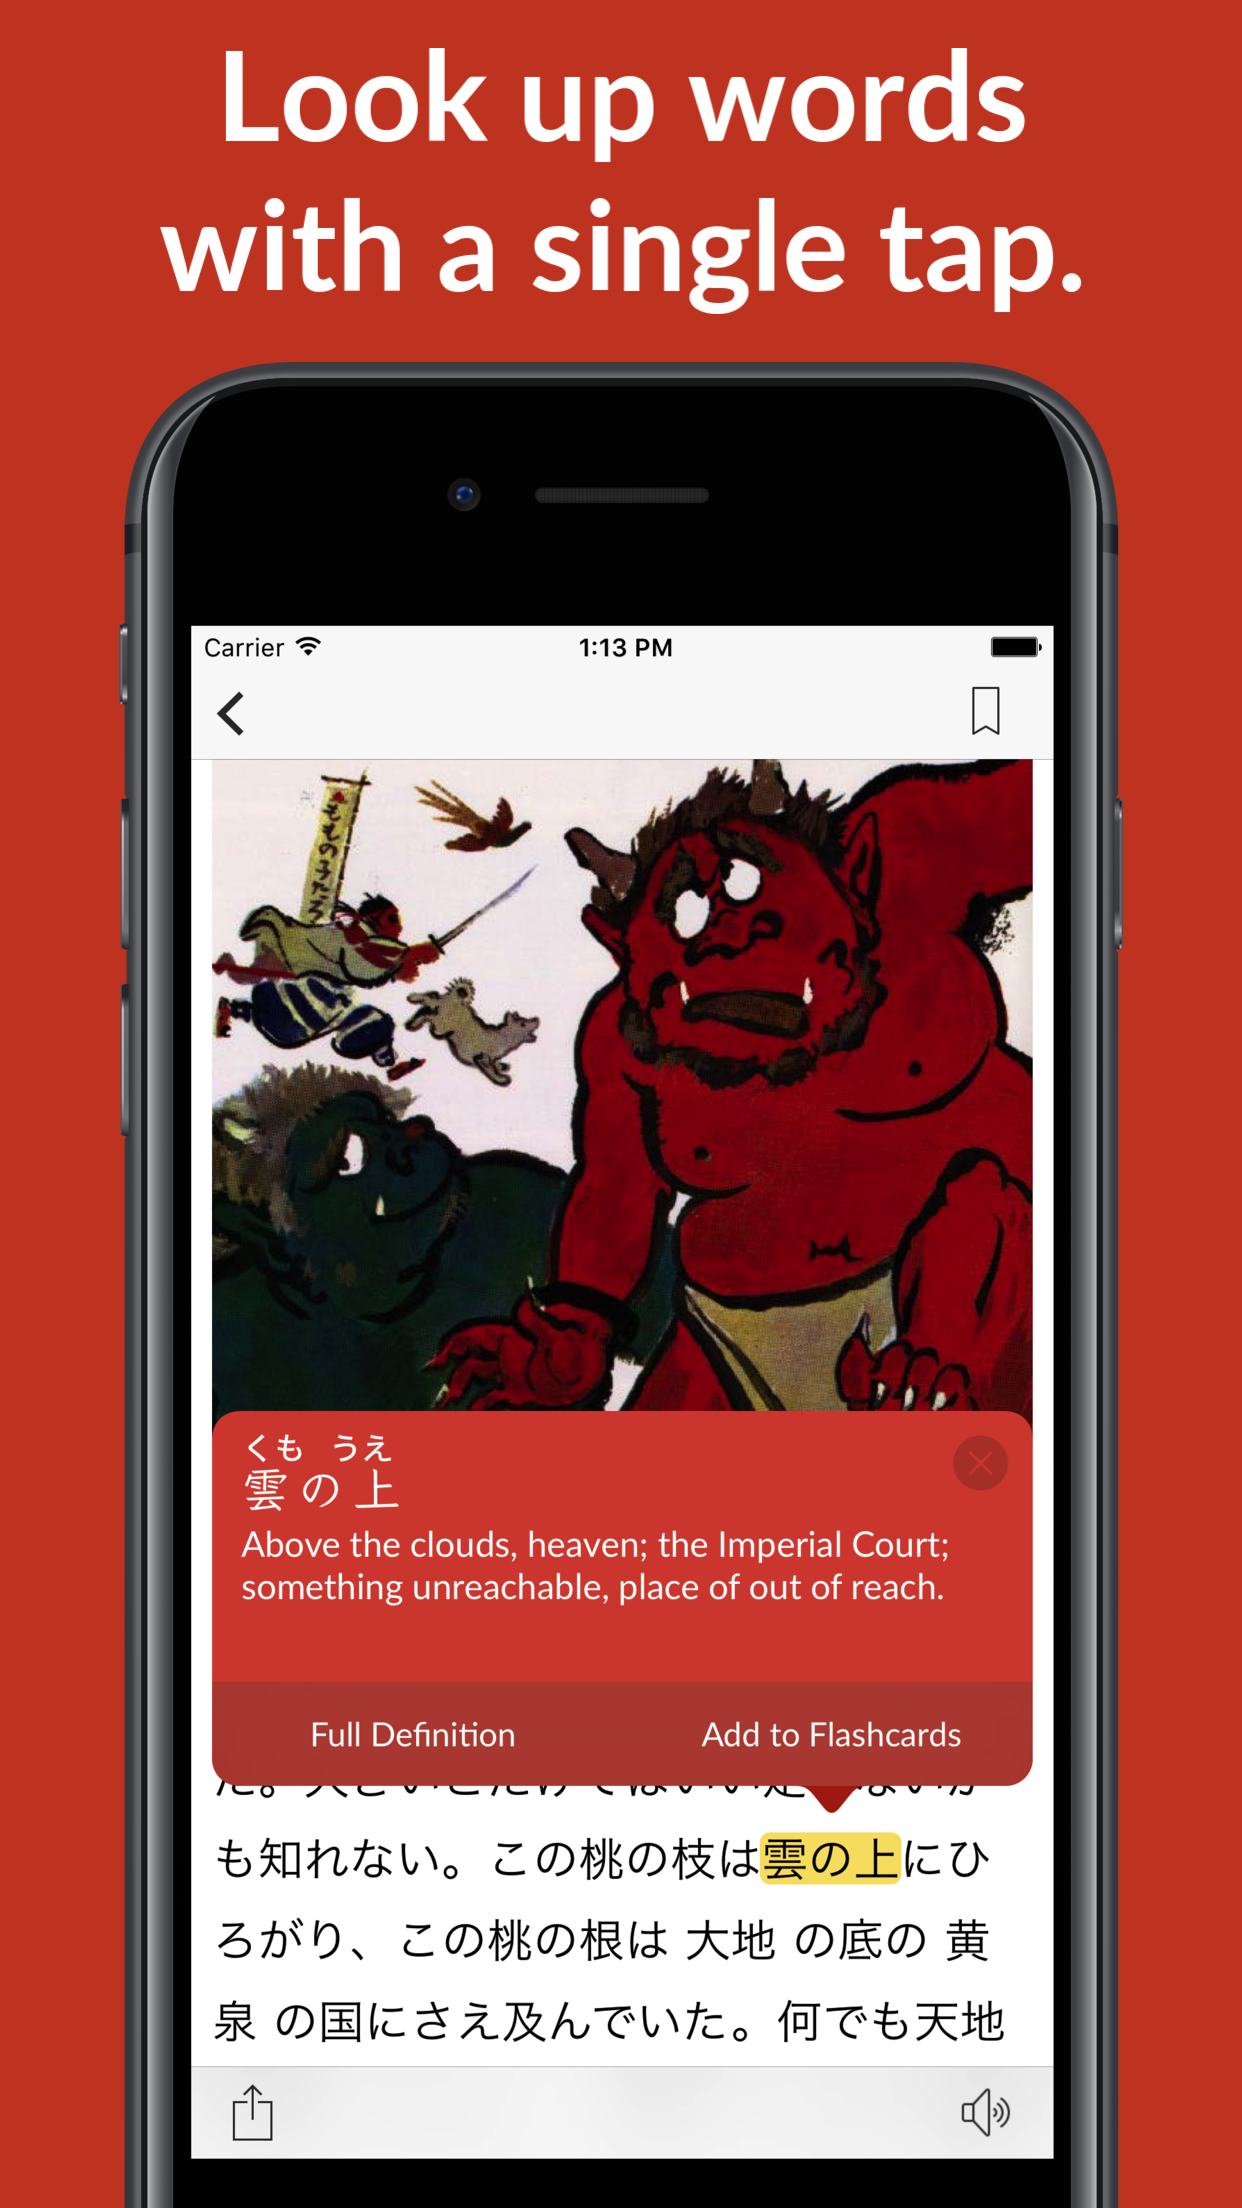
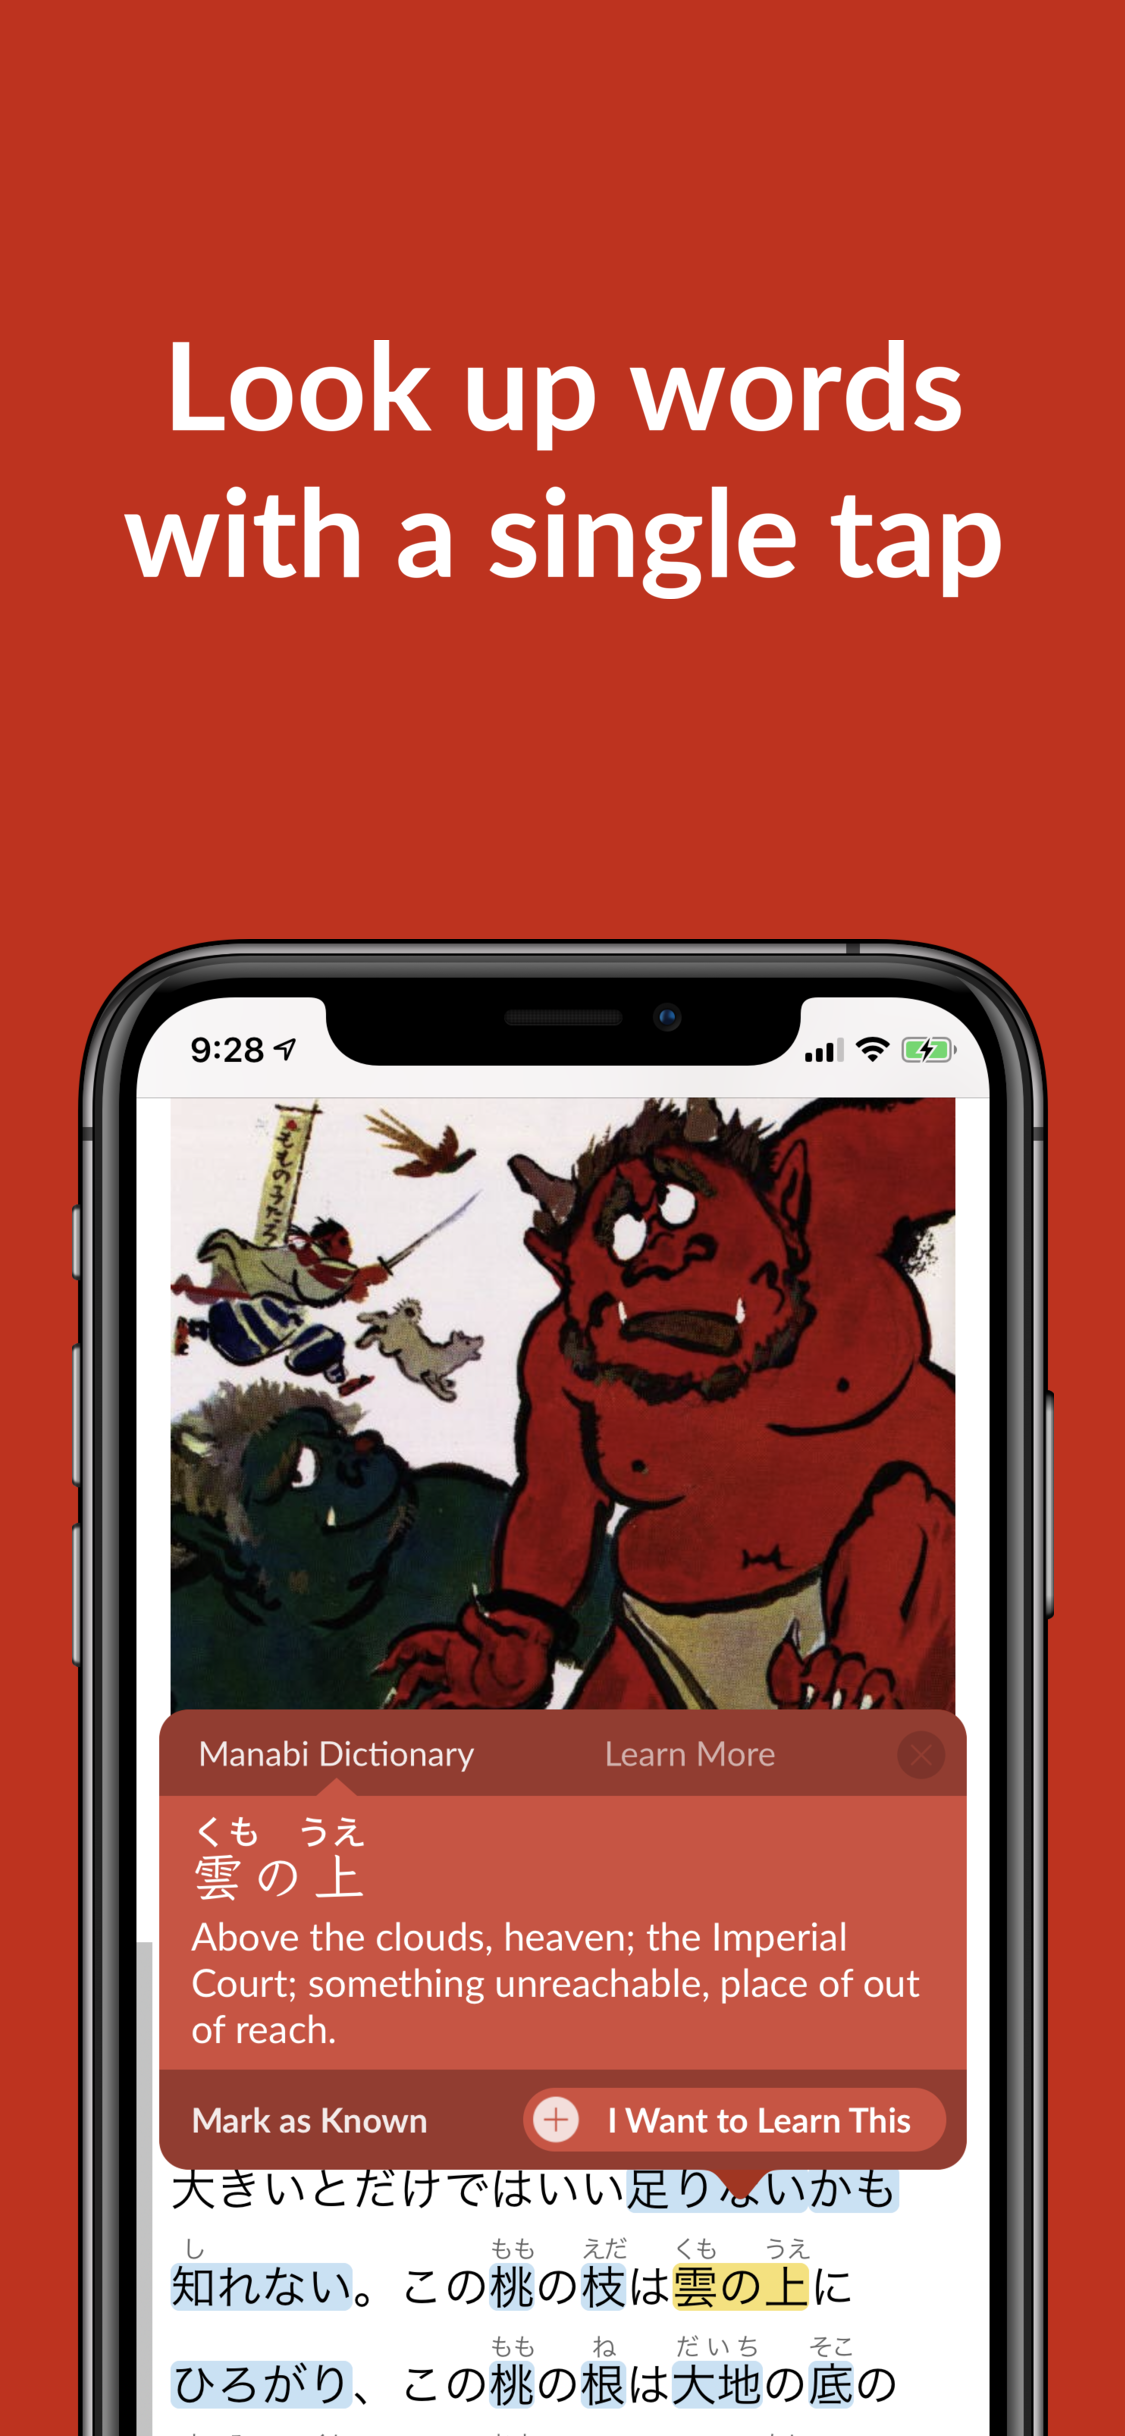
landing page updates

diff --git a/manabi/static/reader/index.html b/manabi/static/reader/index.html
@@ -137,8 +137,10 @@
                     <img src="img/0Home_framed.png">
                     <img src="img/1Lookup_framed.png">
                     <img src="img/2Category_framed.png">
-                    <img src="img/3Feed_framed.png">
-                    <img src="img/4Folktales_framed.png">
+                    <img src="img/3Flashcards_framed.png">
+                    <img src="img/4Kanji_framed.png">
+                    <img src="img/5Feed_framed.png">
+                    <img src="img/6Reddit_framed.png">
                 </div>
             </div>
             <!-- <div class="section-heading text-center">

diff --git a/manabi/static/reader/css/new-age.css b/manabi/static/reader/css/new-age.css
@@ -382,6 +382,9 @@ header.masthead .device-container .screen iframe {
 .contact {
     color: white;
 }
+#features {
+    background-color: #BD331F;
+}
 #features .container .row {
     text-align: center;
 }
@@ -389,6 +392,11 @@ header.masthead .device-container .screen iframe {
     max-width: 300px;
     max-height: 533px;
     object-fit: contain;
+
+    border-bottom: 4px solid rgba(0, 0, 0, 0.8);
+    border-bottom-left-radius: 4px;
+    border-bottom-right-radius: 4px;
+    padding: 0 20px;
 
     margin: 1em;
 }
